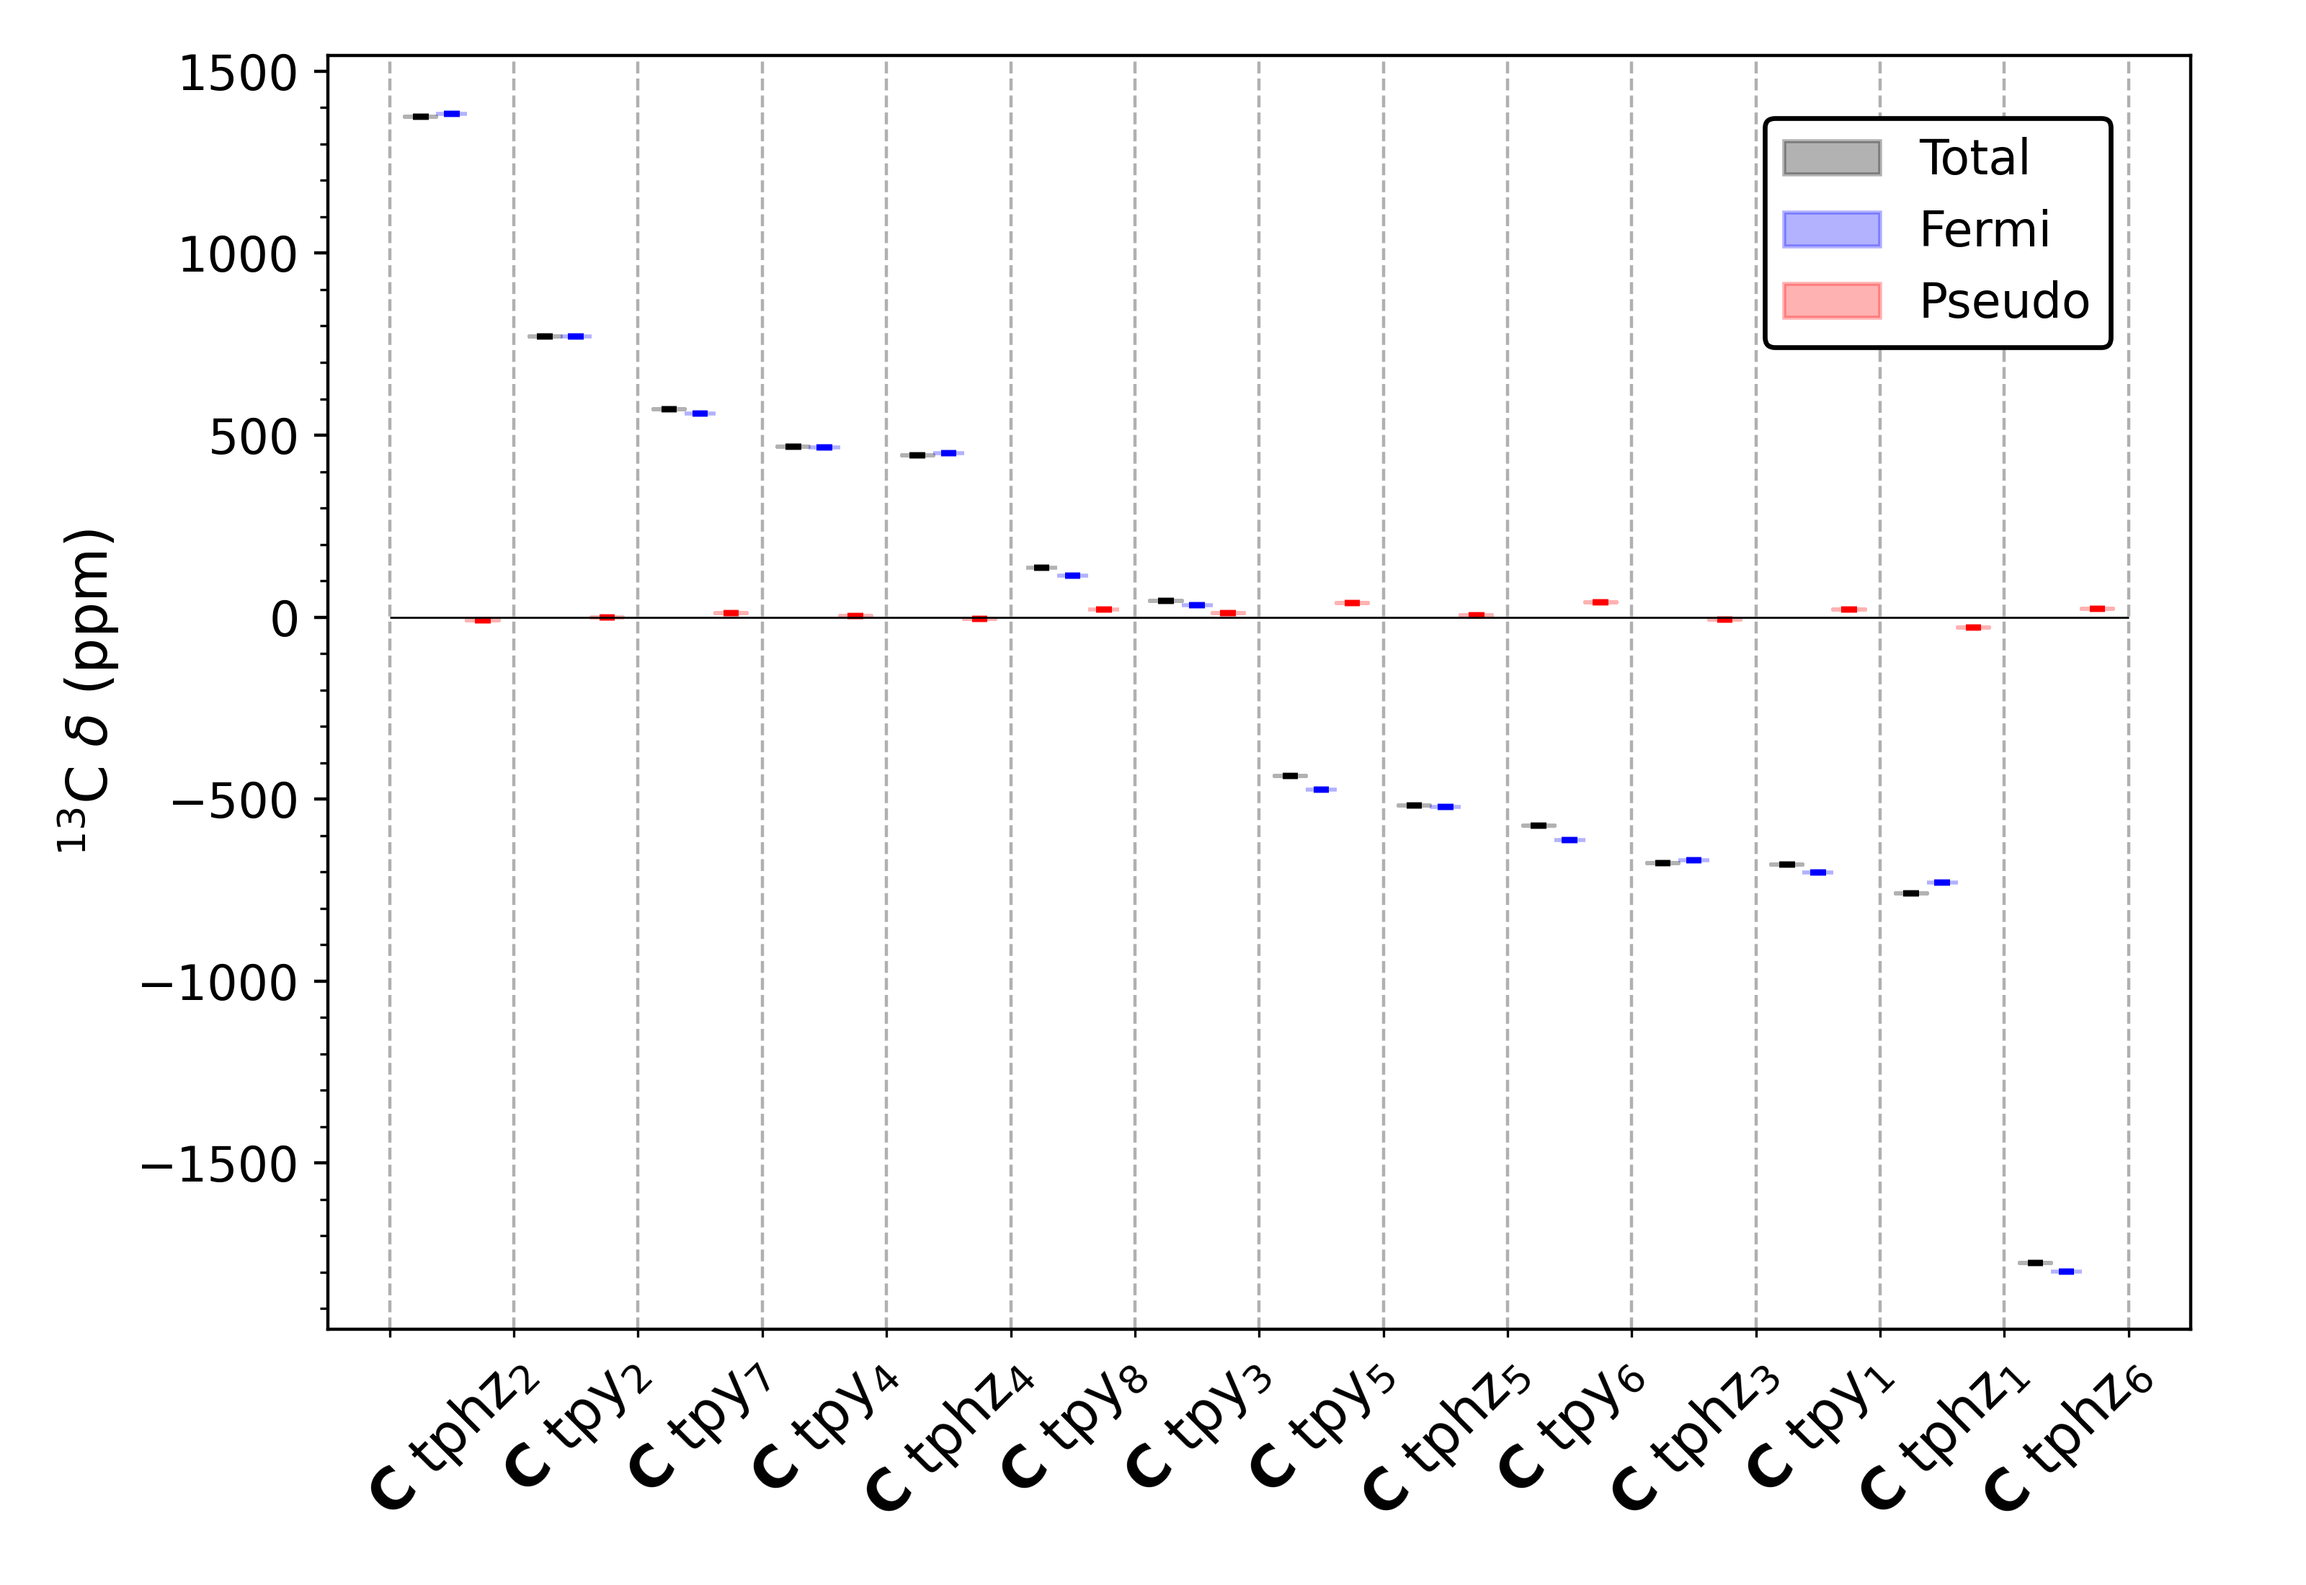
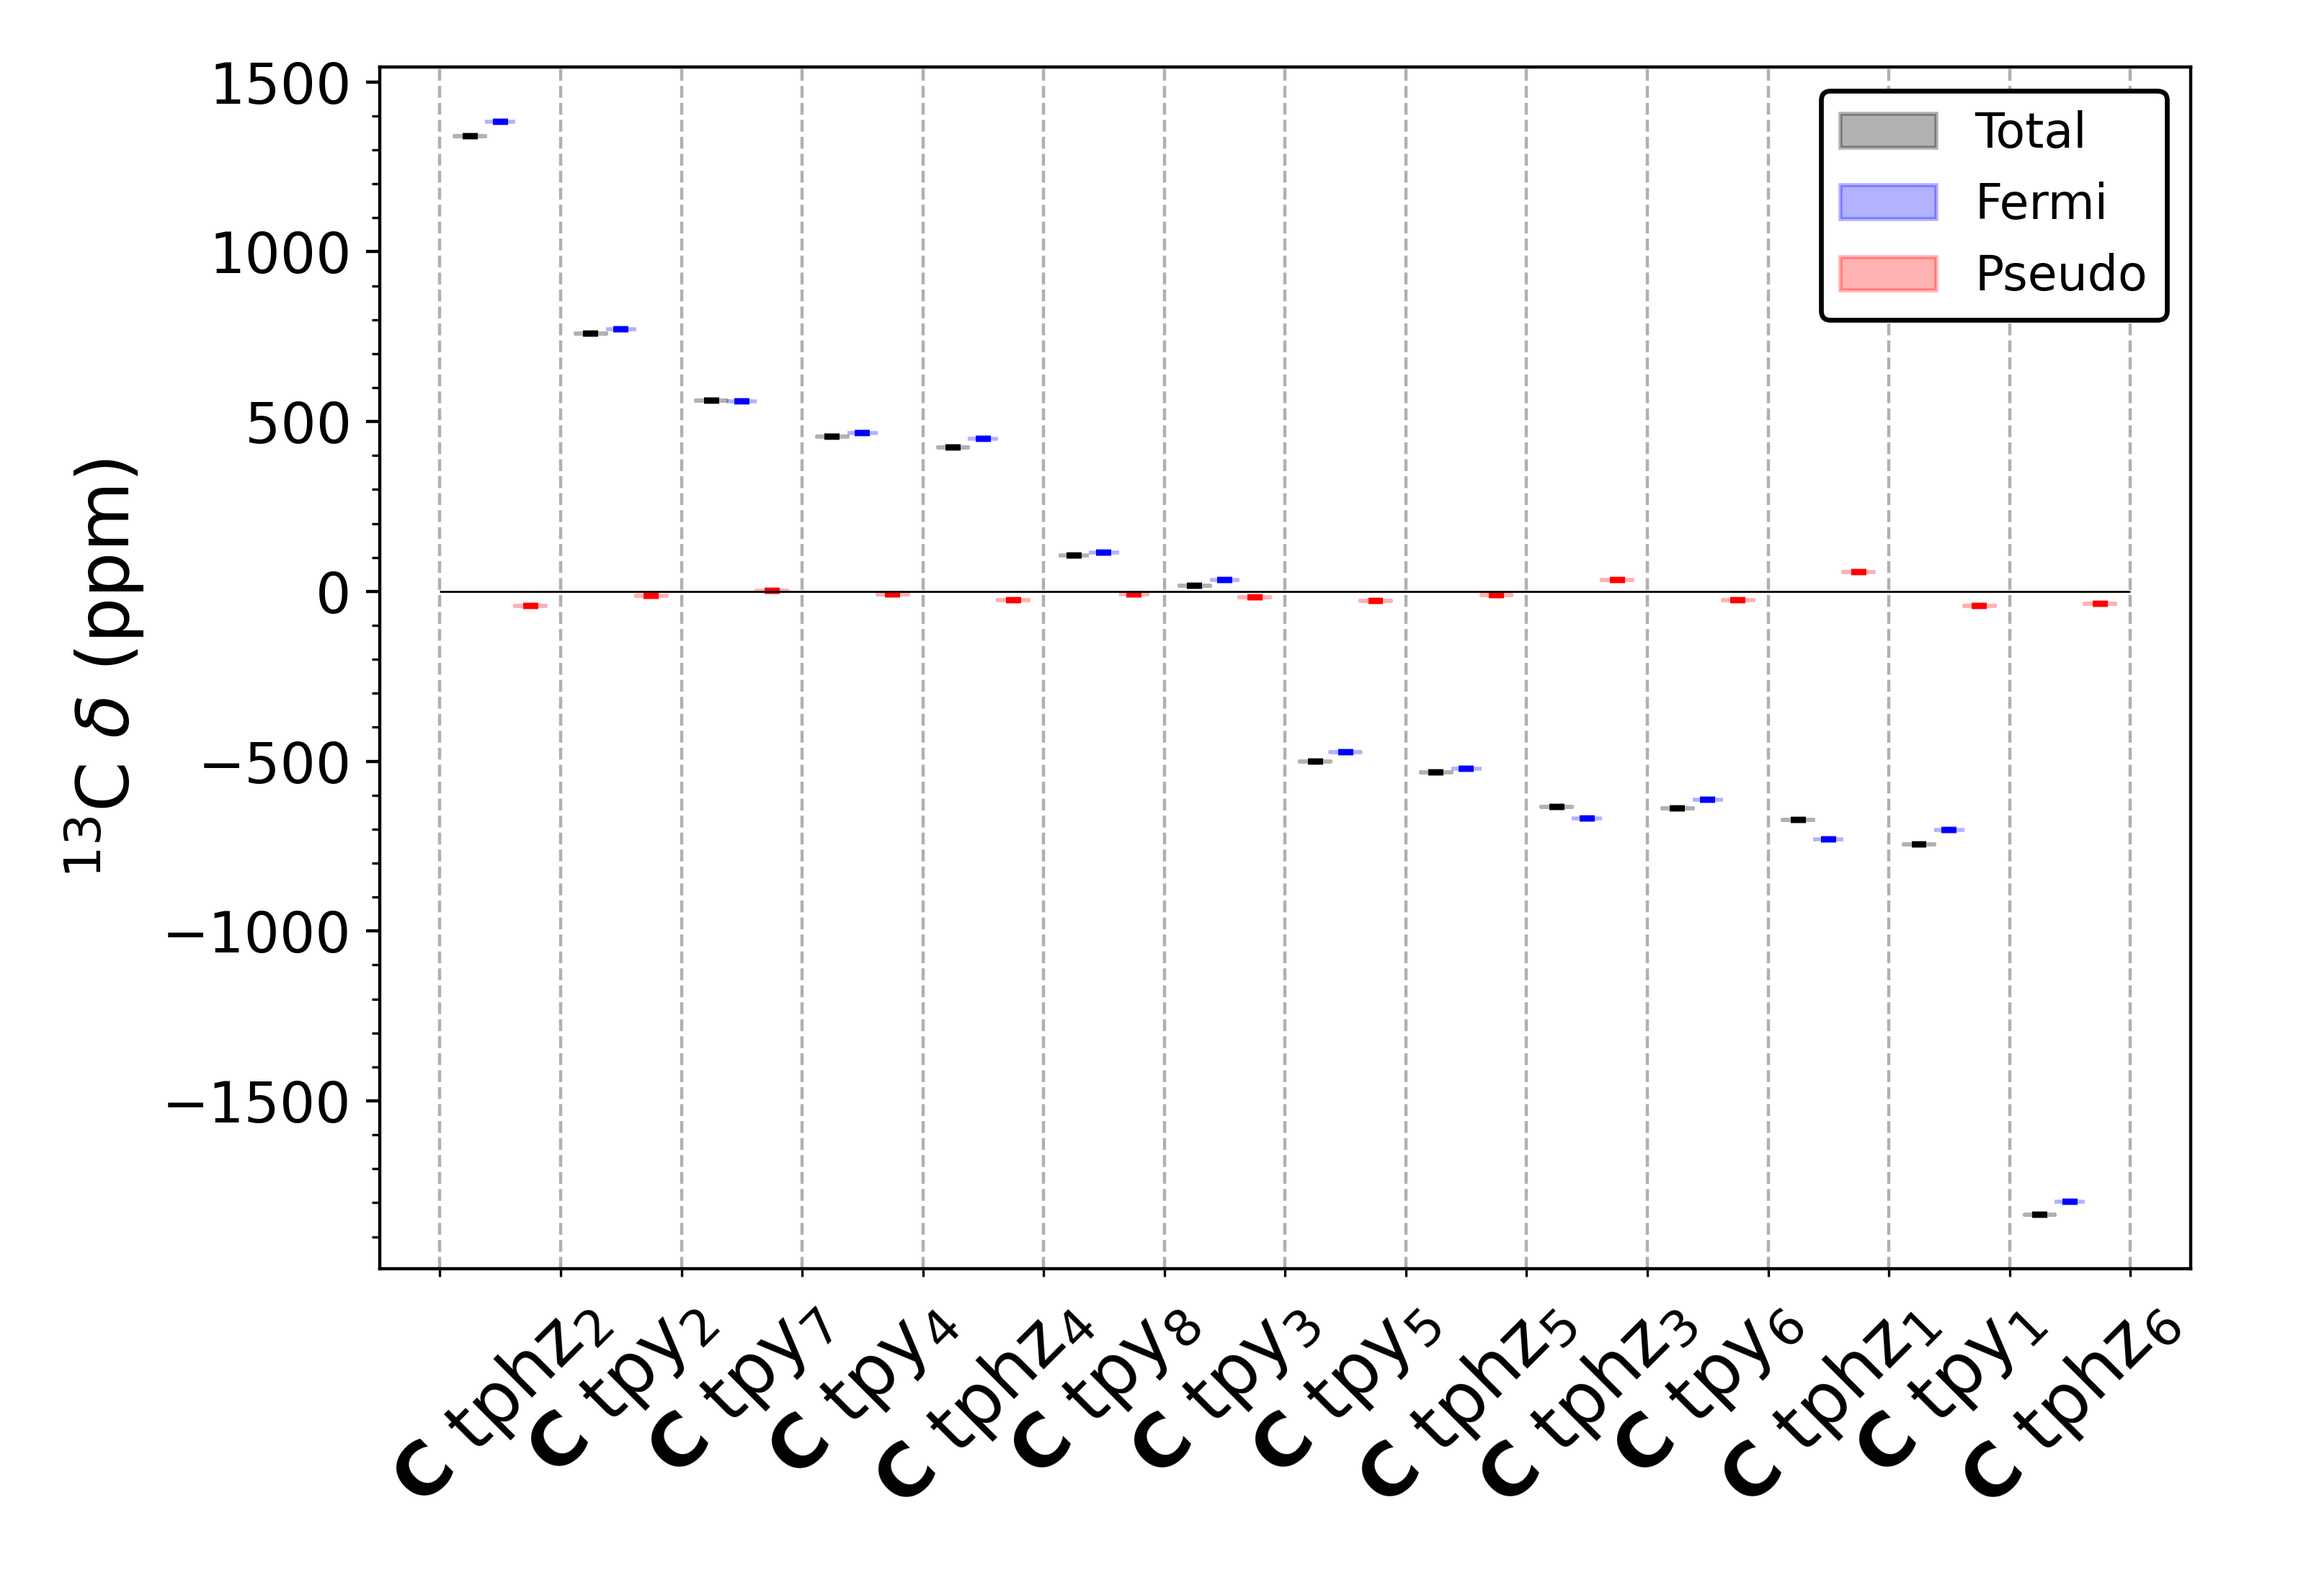
feat(tensors): added transformation of hyperfine tensors into eigenframe of susceptibility tensor

diff --git a/simple_pnmr/utils.py b/simple_pnmr/utils.py
@@ -4,6 +4,7 @@ This module contains utility objects and methods
 """
 
 import numpy as np
+import numpy.linalg as la
 from numpy.typing import NDArray
 import scipy.constants as consts
 import sys
@@ -416,7 +417,7 @@ def find_index_of_nearest(array, value):
 
 
 def isotope_format(isotope_string: str) -> str:
-    '''
+    r'''
     Converts isotope string into Mathtext, compatible with matplotlib
 
     Parameters
@@ -440,3 +441,34 @@ def isotope_format(isotope_string: str) -> str:
     lets = isotope_string[split_at:]
 
     return r'$^\mathregular{{{}}} \mathregular{{{}}}$'.format(nums, lets)
+    
+def calc_hfc_susc_rotation_matrix(hfc_coords, susc_coords) -> NDArray:
+    '''
+    Generates rotation matrix R for transformation of A tensor into frame of susceptibility tensor.\n
+    n.b. A and chi are not neccessarily in the same original frame.\n
+
+    Tranformation is\n
+    Q_SUSC = R * Q_HFC
+
+    Rotation matrix is constructed using coordinates from chi and HFC calculations.
+    Parameters
+    ----------
+
+    Returns
+    -------
+
+    '''
+
+    hfc_coords = np.asarray(hfc_coords)
+    susc_coords = np.asarray(susc_coords)
+
+    # Create common centre of origin as mean of coordinates
+    hfc_coords -= hfc_coords.mean(axis=0)
+    susc_coords -= susc_coords.mean(axis=0)
+
+    # Compute optimal rotation matrix via SVD to align HFC coordinates to susceptibilty frame
+    covariance_matrix = hfc_coords.T @ susc_coords
+    u_svd, _, vt_svd = la.svd(covariance_matrix)
+    rotation_matrix = la.inv(u_svd @ vt_svd)
+
+    return rotation_matrix

diff --git a/simple_pnmr/main.py b/simple_pnmr/main.py
@@ -519,6 +519,18 @@ class Hyperfine():
         self._eigvecs = None
         return
 
+    def rotate_tensor(self, rot_mat: NDArray):
+        '''
+        Rotate hyperfine tensor using given rotation matrix
+
+        Parameters
+        ----------
+        rotmat: ndarray of floats
+            3x3 rotation matrix
+        '''
+        self.tensor = la.inv(rot_mat) @ self.tensor @ rot_mat
+        return
+
     @property
     def iso(self) -> float:
         '''
@@ -817,7 +829,7 @@ class Susceptibility:
     def eigvecs(self) -> NDArray:
         '''
         Eigenvectors of Susceptibility Tensor
-        Dimensionless
+        Dimensionless and same order as eigenvalues (low to high abs value)
         '''
         # Recalculate if not populated
         if self._eigvecs is None:
@@ -2152,7 +2164,7 @@ class Molecule():
         '''
 
         for nuc in self.nuclei:
-            nuc.A.tensor = la.inv(rot_mat) @ nuc.A.tensor @ rot_mat
+            nuc.A.rotate_tensor(rot_mat)
 
         return
 

diff --git a/simple_pnmr/cli.py b/simple_pnmr/cli.py
@@ -1038,6 +1038,16 @@ def predict_func(uargs):
         for _ in range(len(experiments))
     ]
 
+    # Transform hypefine tensors into eigenframe of susceptibility tensor
+    # Find transformation between HFC and SUSC frames
+    _, susc_coords = rdrs.read_orca5_output_xyz(config.susceptibility_file)
+    hfc_to_susc_rmat = ut.calc_hfc_susc_rotation_matrix(base_molecule.coords, susc_coords)
+    # Combine with eigenvectors of SUSC to give total transformation matrix for each temperature
+    for molecule, susc in zip(molecules, suscs):
+        hfc_to_eigensusc = susc.eigvecs.T @ hfc_to_susc_rmat
+        # Apply to each molecule
+        molecule.rotate_hyperfines(hfc_to_eigensusc.T)
+
     if len(config.experiment_spectrum_files):
         for experiment, spectrum in zip(experiments, config.experiment_spectrum_files): # noqa
             experiment.load_spectrum_from_file(spectrum)
